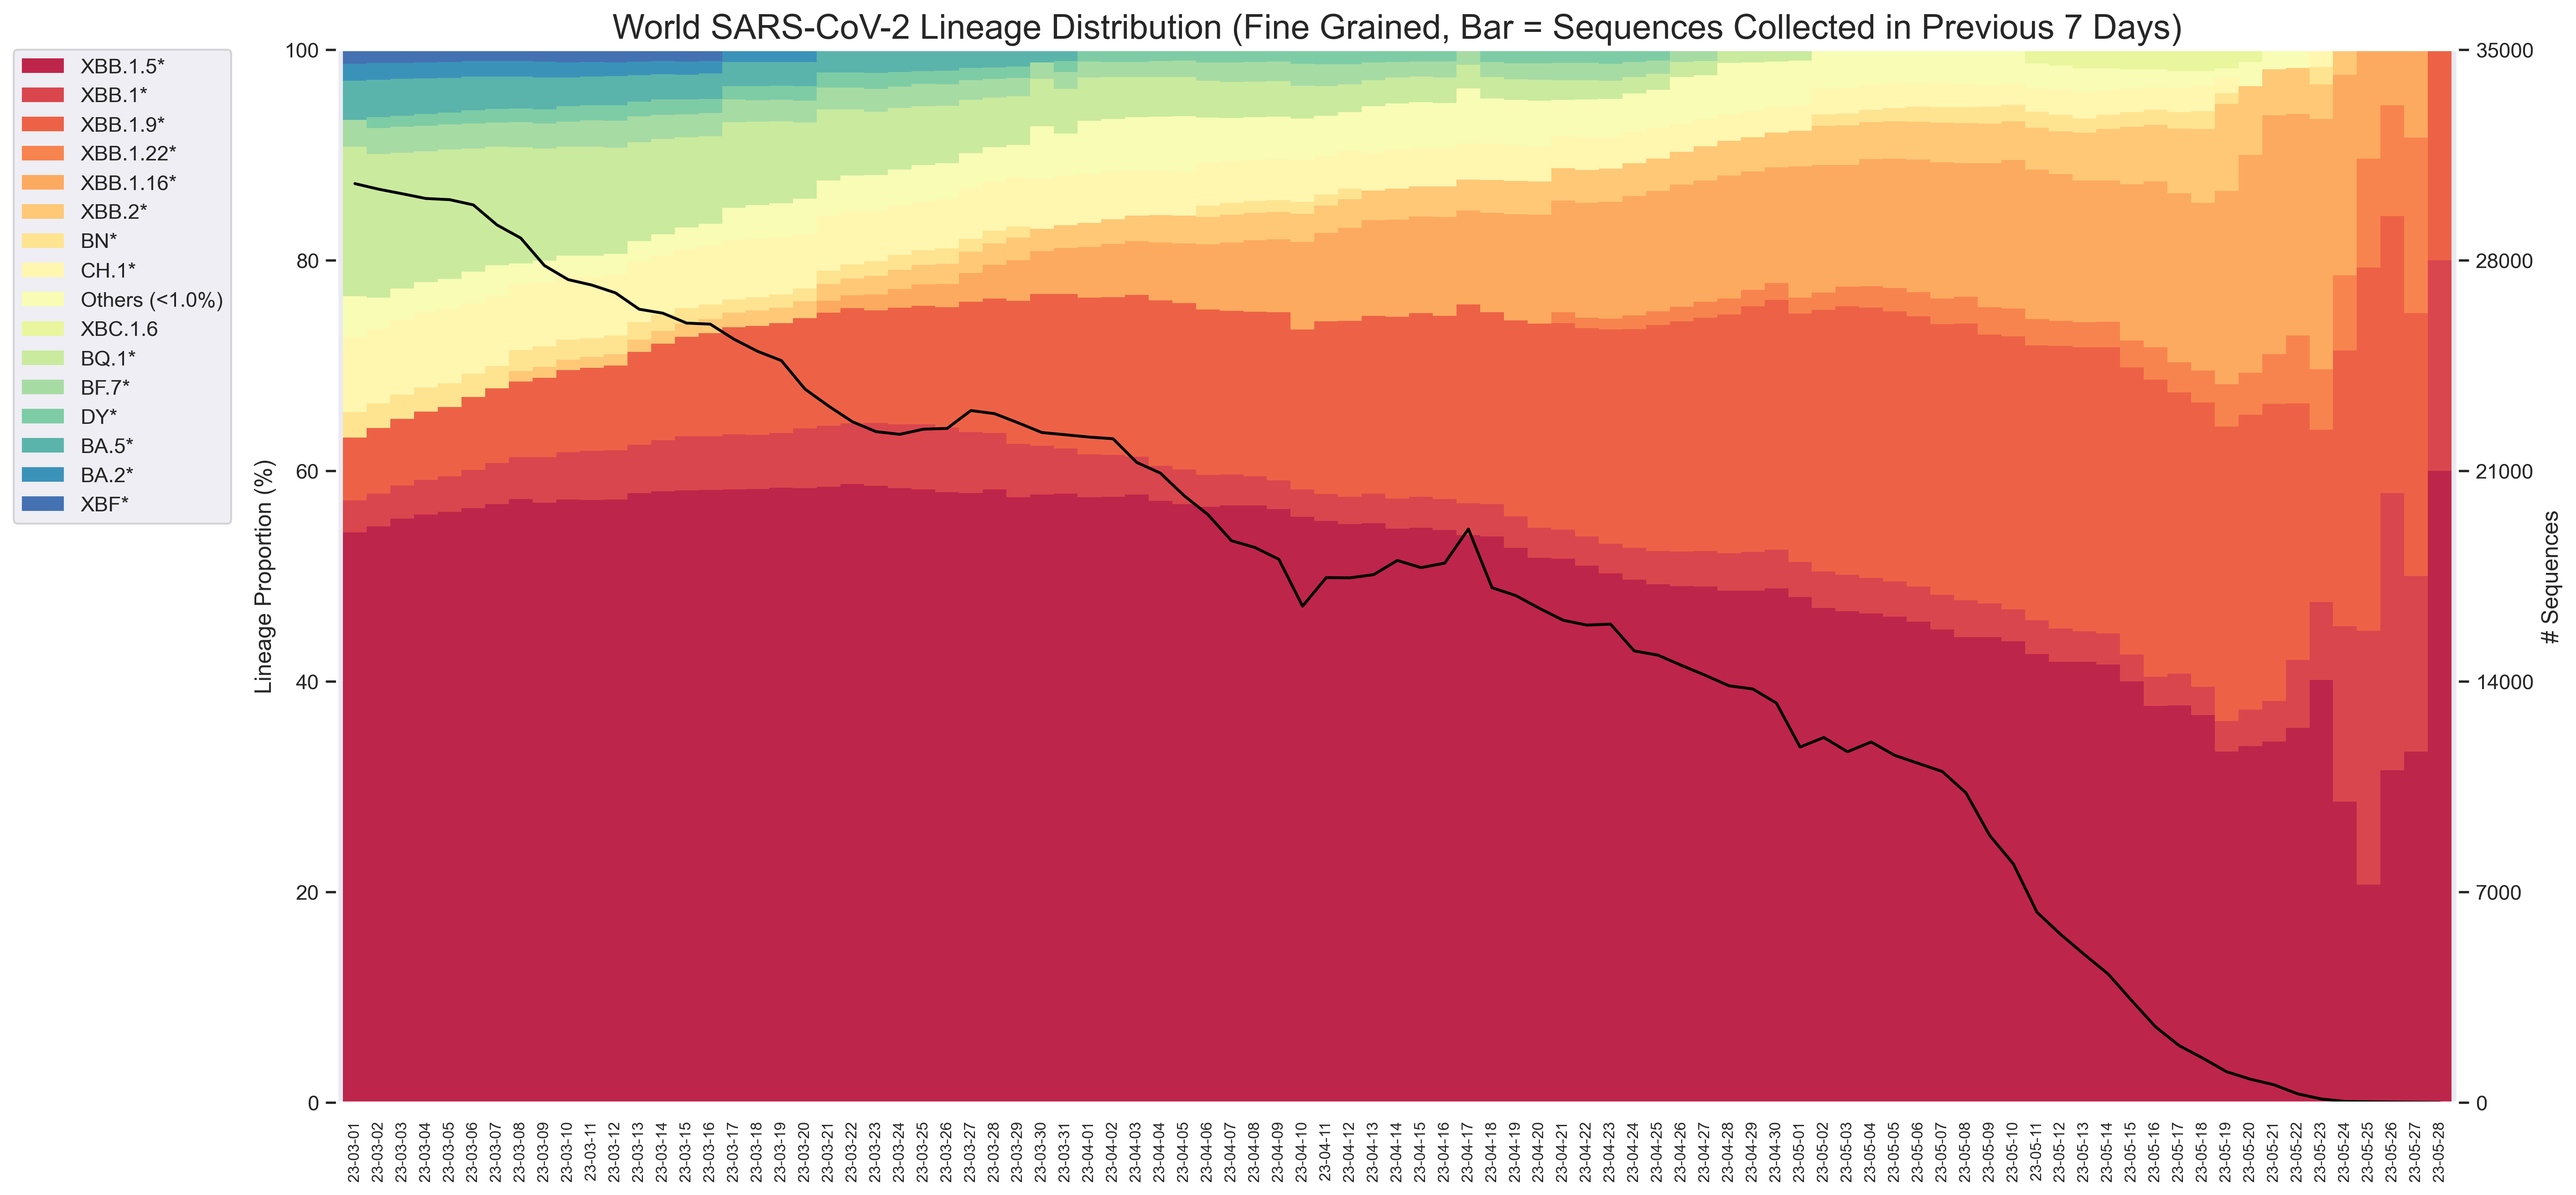
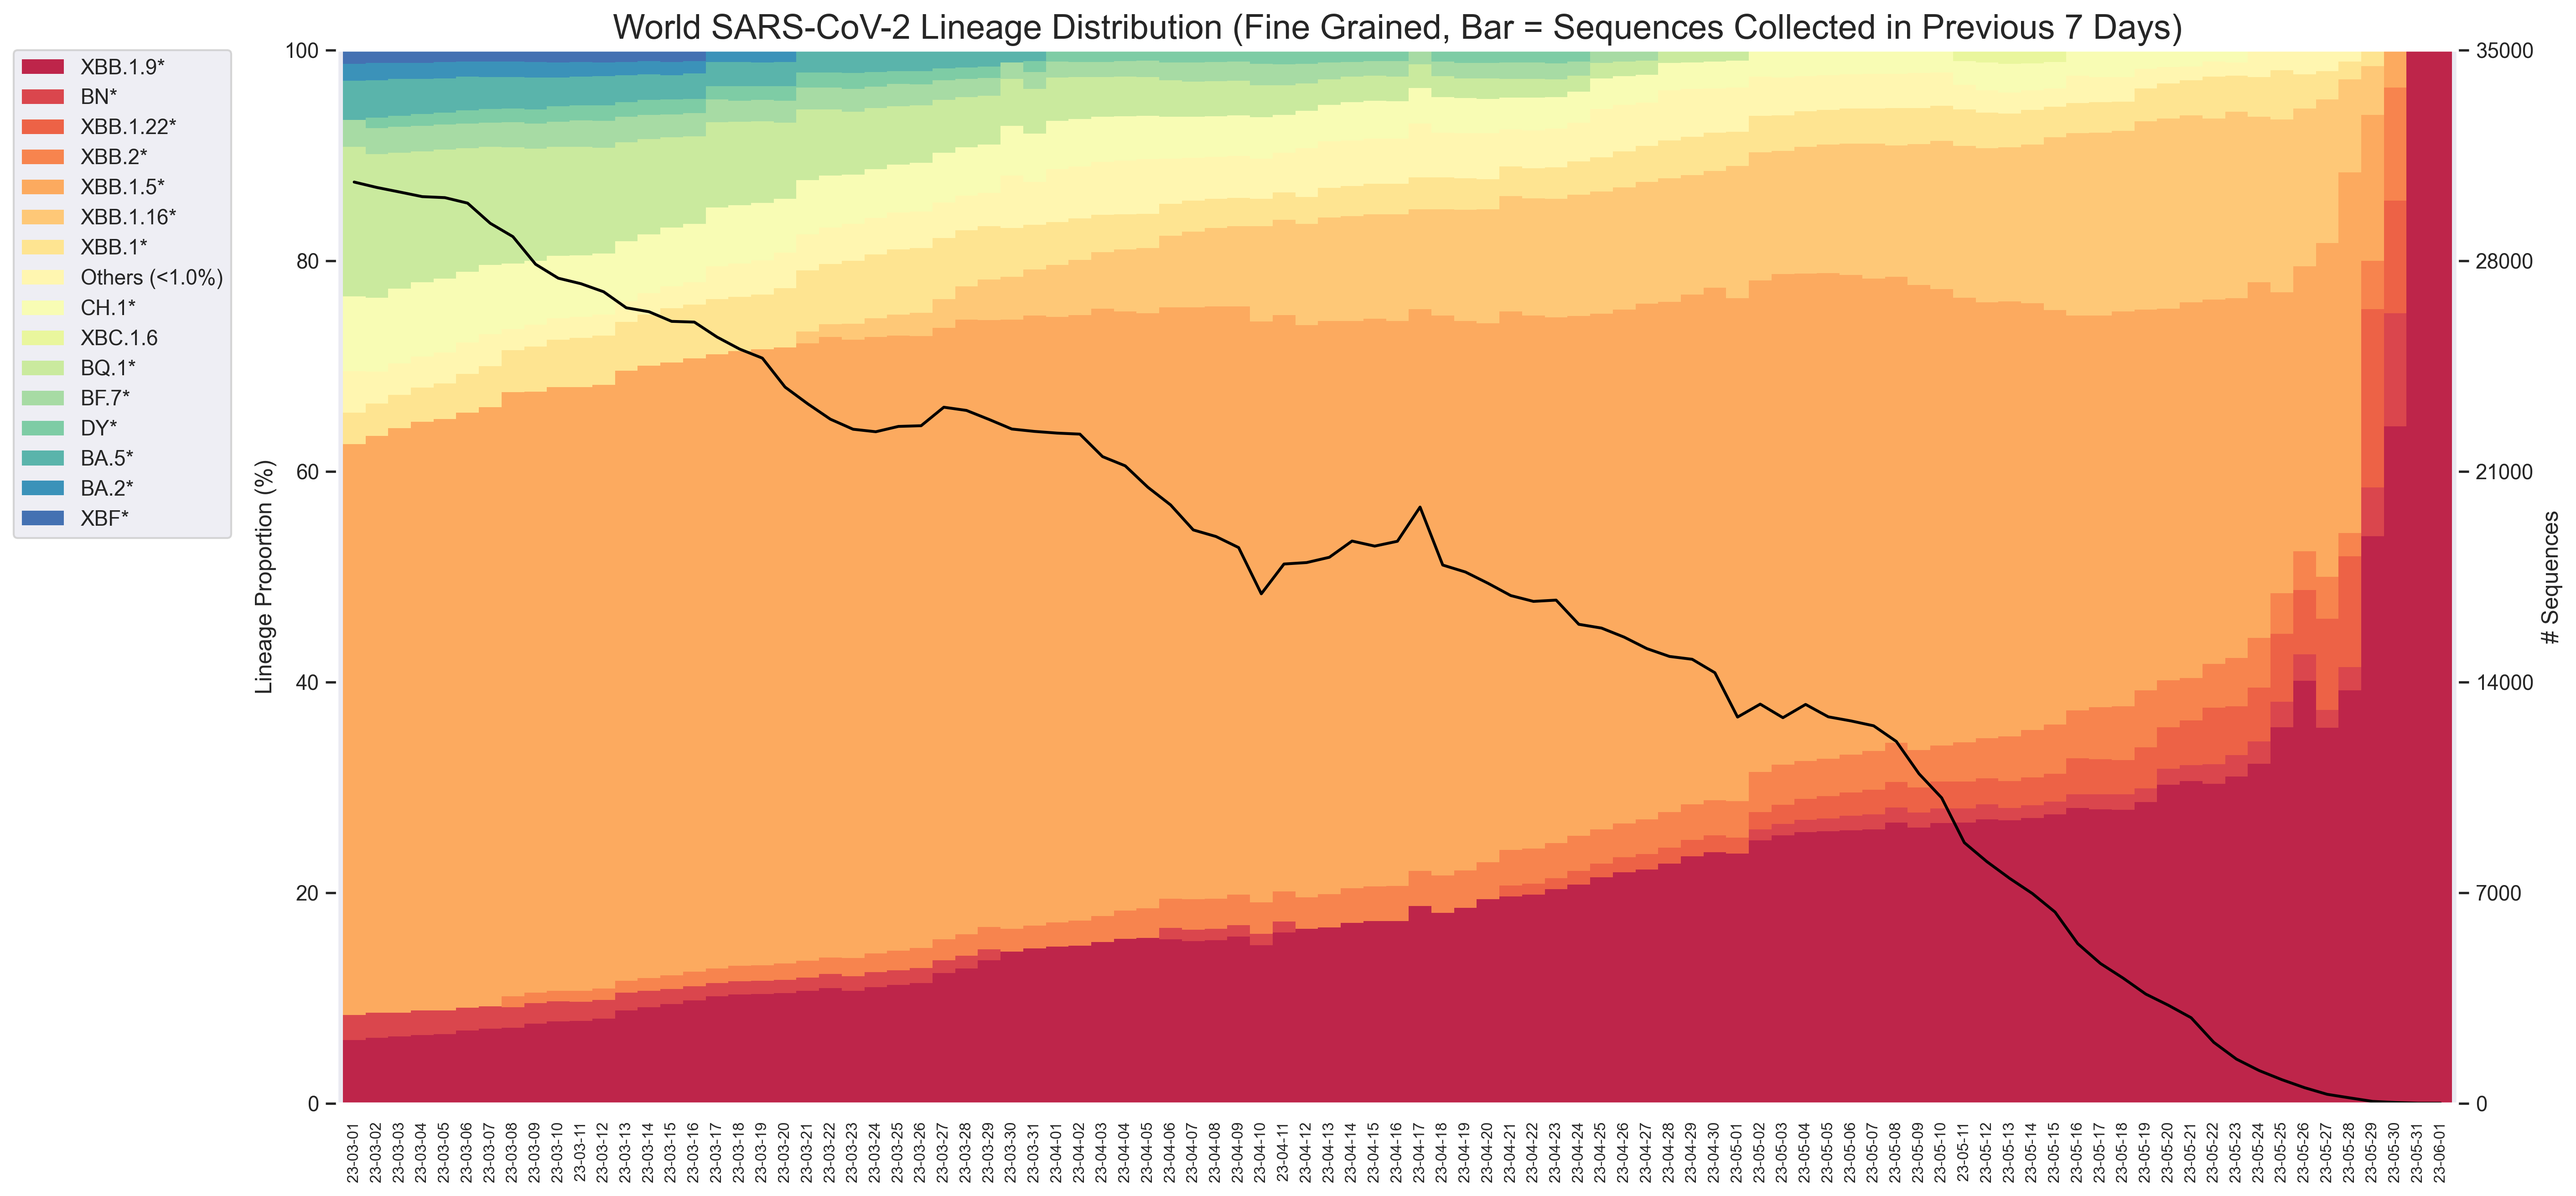
Update 2023.06.05

diff --git a/lineage.py b/lineage.py
@@ -100,9 +100,12 @@ def get_data(region : str, start_date : str = '2019-12-20', end_date : str = '',
 			query_interval : int = 7, retry_times : int = 5, 
 			num_workers : int = 10,
 			cached : bool = True, is_collect_date : bool = True) -> pd.DataFrame:
+	
+	# 确定结束日期, 空字符串为默认今天
+	end_date = date.today() if (end_date == '' or end_date is None) else date.fromisoformat(end_date)
+
 	# 缓存文件名
 	cache_file = 'data ' + region + ' ' + str(start_date) + ' ' + str(end_date) + '.csv'
-
 	# 如果有缓存文件, 直接读取
 	if osp.exists(cache_file):
 		data = pd.read_csv(cache_file)
@@ -113,9 +116,6 @@ def get_data(region : str, start_date : str = '2019-12-20', end_date : str = '',
 	# 确定地区名
 	region = '' if region == 'World' else region
 	
-	# 确定结束日期, 空字符串为默认今天
-	end_date = date.today() if (end_date == '' or end_date is None) else date.fromisoformat(end_date)
-		
 	mgr = mp.Manager()
 	# 
 	input_list = mgr.list()
@@ -170,7 +170,9 @@ def get_data(region : str, start_date : str = '2019-12-20', end_date : str = '',
 		except:
 			print('Warning: key {} does not found.'.format(key))
 	print('Done.')
-	
+
+	# 去重
+	data = data.drop_duplicates(subset = ['accession'])
 	data = data.reset_index(drop = True)
 	if cached:
 		data.to_csv(cache_file, index = False)
@@ -200,9 +202,9 @@ def update_data(region, cache_file = '', query_interval = 7, retry_times = 5, ca
 	new_cache_file = 'data ' + region + ' ' + str(start_date) + ' ' + str(end_date) + '.csv'
 
 	print('Querying recently collected sequences...')
-	new_data_collect = get_data(region = region, start_date = data['collectDate'].max(), end_date = str(end_date), query_interval = query_interval, retry_times = retry_times, cached = False, is_collect_date = True)
+	new_data_collect = get_data(region = region, start_date = str(date.fromisoformat(data['collectDate'].max()) - timedelta(days = 14)), end_date = str(end_date), query_interval = query_interval, retry_times = retry_times, cached = False, is_collect_date = True)
 	print('Querying recently submitted sequences...')
-	new_data_submit = get_data(region = region, start_date = data['submitDate'].max(), end_date = str(end_date), query_interval = query_interval, retry_times = retry_times, cached = False, is_collect_date = False)
+	new_data_submit = get_data(region = region, start_date = str(date.fromisoformat(data['submitDate'].max()) - timedelta(days = 14)), end_date = str(end_date), query_interval = query_interval, retry_times = retry_times, cached = False, is_collect_date = False)
 	
 	# 删除奇怪的换行
 	new_data_collect = new_data_collect.replace(r'\r+|\n+|\t+','', regex = True)
